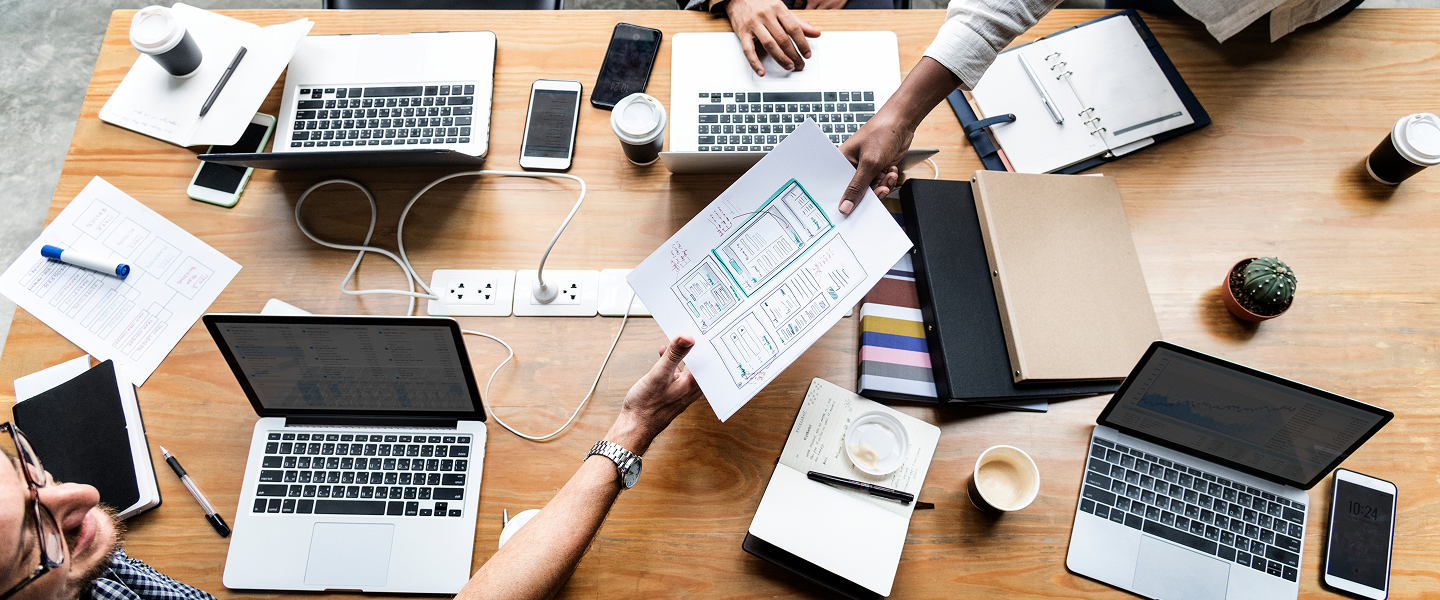
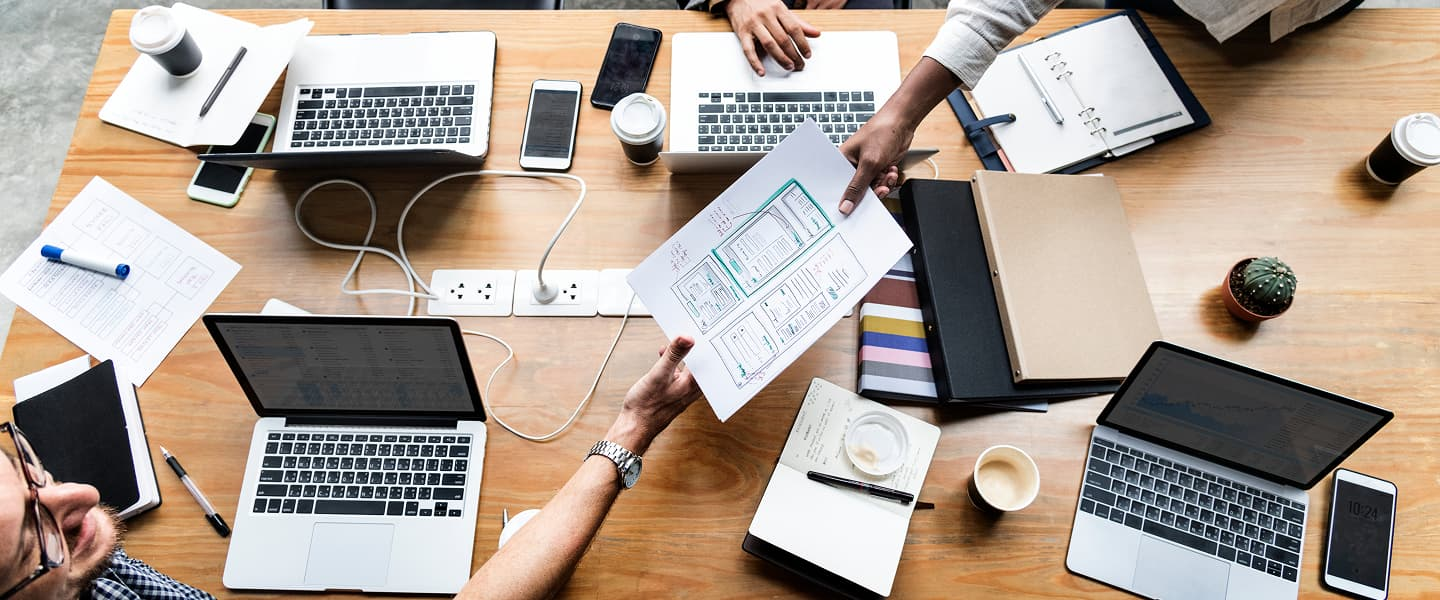
add index file

diff --git a/css/styles.css b/css/styles.css
@@ -165,6 +165,16 @@ padding: 24px 0;
 
 /*1 section*/
 
+.office {
+    background-image: linear-gradient(rgba(46, 47, 66, 0.7), rgba(46, 47, 66, 0.7)), url(../images/people-office.jpg);
+    background-repeat: no-repeat;
+    background-size: cover;
+    max-width: 1440px;
+    background-position: center center;
+    margin: 0px auto;
+    padding: 188px 0px;
+}
+
 .main-page-title {
     background: #2E2F42;
     padding: 188px 0;

diff --git a/index.html b/index.html
@@ -60,7 +60,7 @@
     </header>
 
     <main>
-      <section class="main-page-title">
+      <section class="main-page-title office">
         <div class="container">
           <h1 class="main-sektion-title">
             Effective Solutions for Your Business
